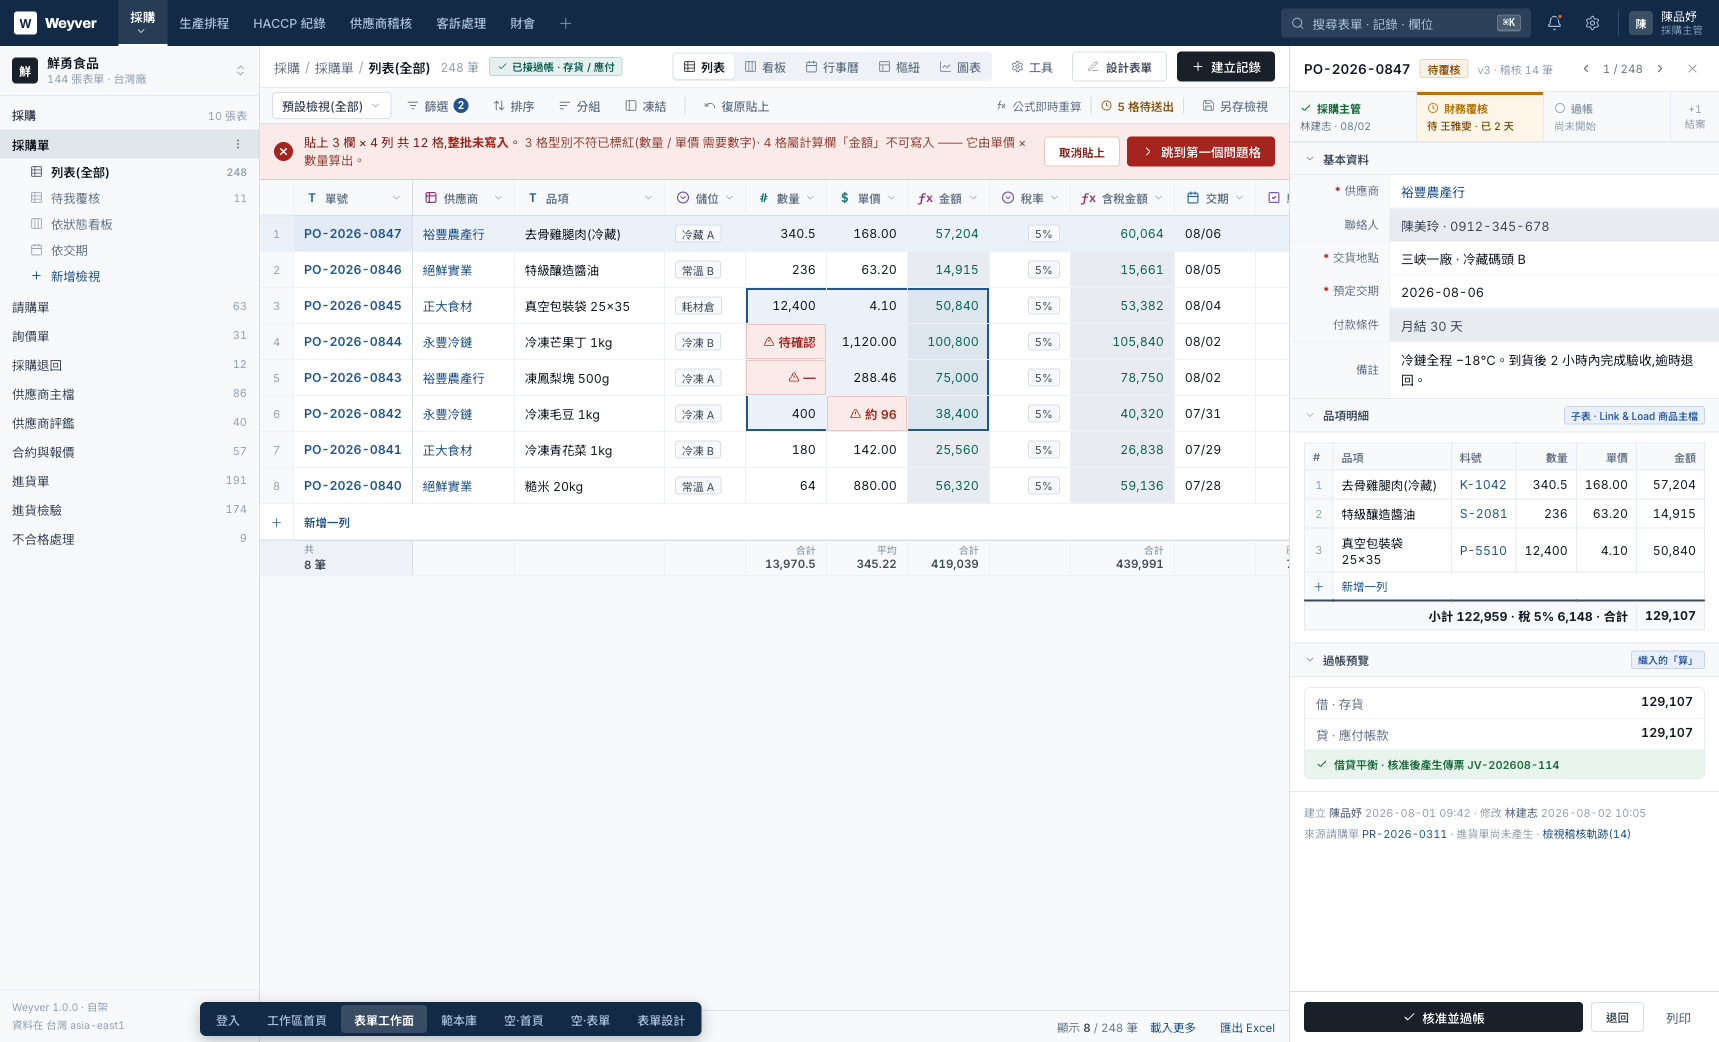
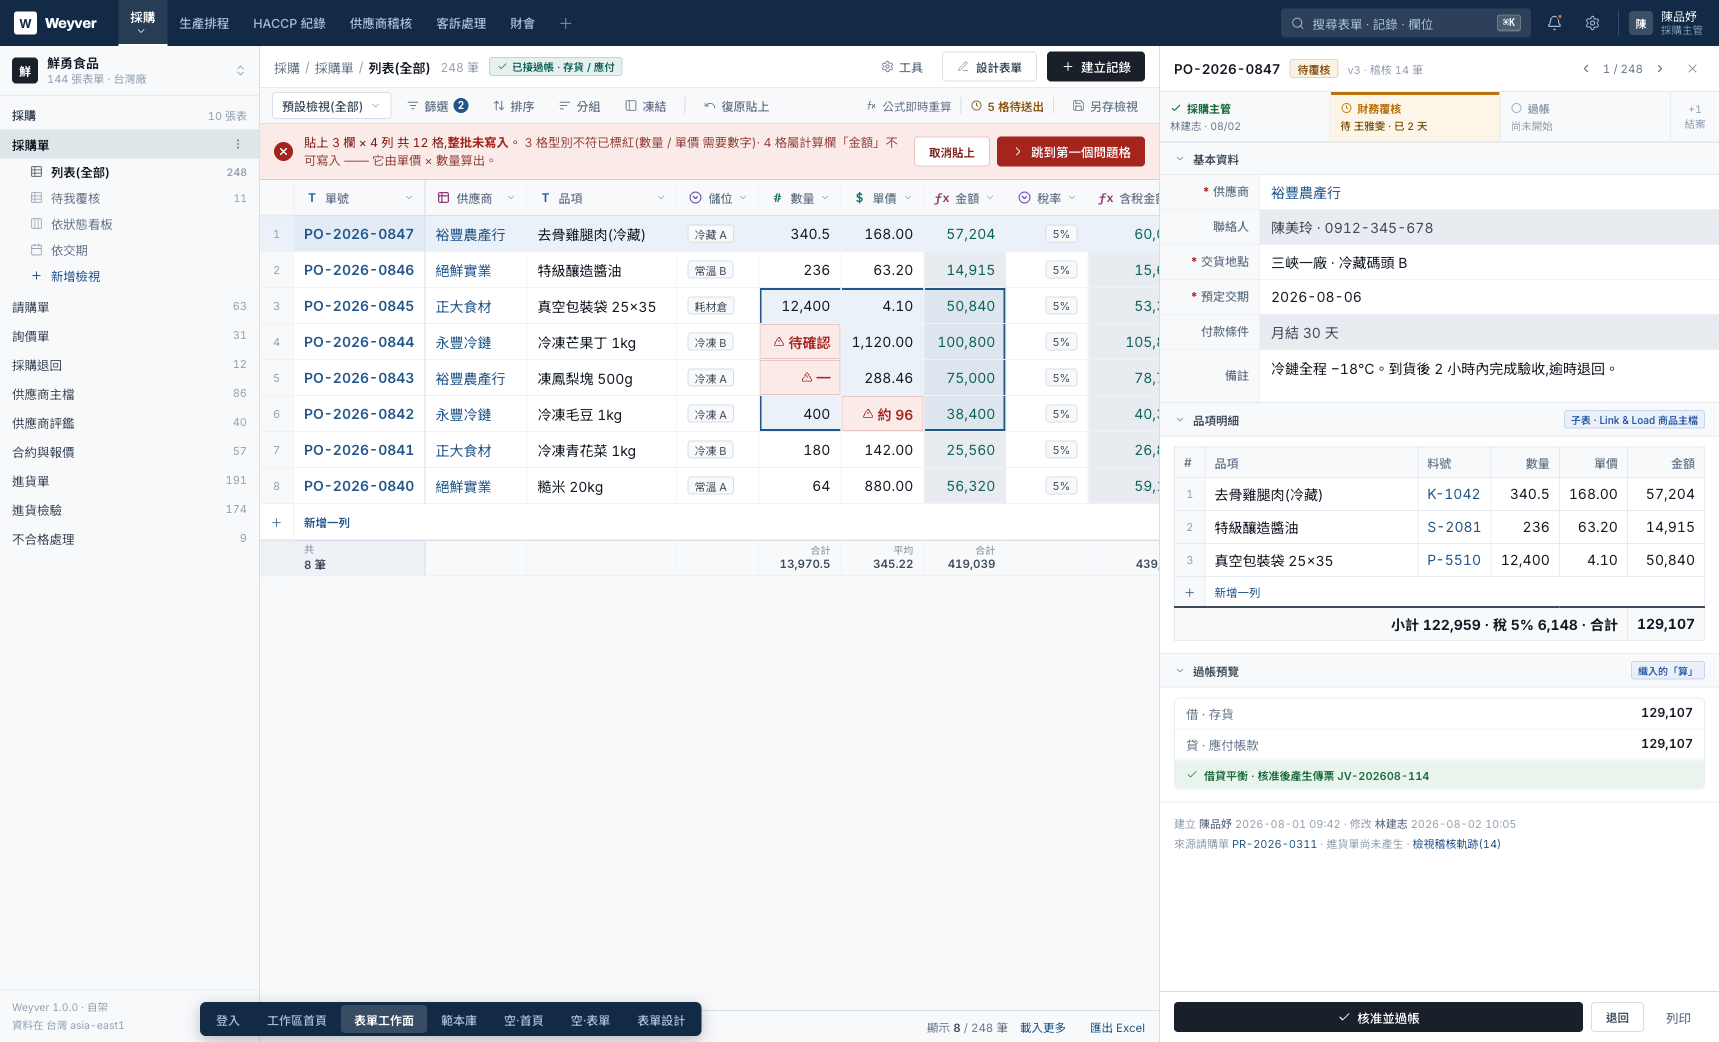
docs(design): G12 儲存格 14px —— 連帶翻出記錄抽屜寬度與「檢視是物件不是模式」
**G12 本身**:資料儲存格 12.4 → 14px(§2.2「CJK 在同樣 px 下視覺比 Latin 小約 1px」),
表頭 11.5/600 → 12/500,記錄面板欄位值與子表同步。

🔴 **規則內部有矛盾,用作者自己的 mockup 當裁判**:
§2.2 token 表寫「label 12/500|欄位標籤、**表頭**」,
內文卻寫「**表頭與儲存格同尺寸**,只差字重與顏色」。
mockup.html:74-77 逐字 td{font-size:14px} / th{font-size:12px;font-weight:500}
→ 產出物跟 token 表走;**那句內文被作者自己的實作推翻了**。

🔴 **連帶一:記錄面板 430 → 560px。** §2.3「右側面板 400px 檢閱器 / 560px 記錄抽屜」。
我方這個面板承載標題+階段列+欄位+子表+過帳+稽核尾註+動作列 ——
那是**記錄抽屜不是檢閱器**,430px 從一開始就偏窄,只是 14px 之後藏不住了。

🔴 **連帶二(最有價值的一個):工作列的檢視頁籤整排移除。**
側欄 260 + 抽屜 560 之後工作列擠爆,五個頁籤被壓成直書。
但去看**為什麼擠** —— 那五個頁籤本來就不該存在:
§1 逐字「檢視是物件,不是模式(NocoDB)。**不要做『把這張表切成看板』的開關**,
而是『建立一個看板檢視』。」
而具名檢視在**步驟 4 已經放進側欄了** → 留著是同一件事兩套 UI,
**而且其中一套正是規則點名的反面作法**。

→ 教訓:**空間壓力暴露的是結構問題,不是版面問題。**
   擠的時候先問「這東西該在嗎」,而不是先想怎麼塞。

diff --git a/docs/mockups/weyver-v2.html b/docs/mockups/weyver-v2.html
@@ -598,7 +598,16 @@ a:hover{text-decoration:underline;}
 /* 網格 —— 共識 R2 的另一半:可編輯 → 完整格線 + 列號欄。
    [M] 格線比外框淺(NocoDB),但 W3 要看得見(不學它的 7/255)。 */
 .gscroll{flex:1;overflow:auto;min-height:0;background:var(--paper-2);}
-.g{border-collapse:separate;border-spacing:0;font-size:12.4px;width:100%;}
+/* 🔴 G12(2026-08-08)|資料儲存格 **14px**。`DESIGN-RULES.md` §2.2:
+   「**CJK 在同樣 px 下視覺比 Latin 小約 1px,所以資料儲存格用 14px 而非 13px**」。
+   我方原本 12.4px —— 比規則小 1.6px,換 Noto Sans TC 後更明顯。
+
+   ⚠ **規則內部有矛盾,我用作者自己的 mockup 當裁判**:
+   §2.2 token 表寫「label 12/500|欄位標籤、**表頭**」,
+   但同節內文寫「**表頭與儲存格同尺寸**,只差字重與顏色」。
+   `mockup.html:74-77` 逐字 `td{font-size:14px}` / `th{font-size:12px;font-weight:500}`
+   → **產出物跟 token 表走,那句內文被作者自己的實作推翻了。** */
+.g{border-collapse:separate;border-spacing:0;font-size:14px;width:100%;}
 /* 🔴 G7(docs/39 步驟 2)|列高 36px、內距 10px。
    `DESIGN-RULES.md` §2.3:「三家獨立量測收斂:32–36px 列高、8–12px 儲存格內距」,
    並明列「**列高不要膨脹到 52px**」(Qualio 的 56–70px 讓 QA 主管一頁只看到 10 筆)。
@@ -606,7 +615,7 @@ a:hover{text-decoration:underline;}
 .g th,.g td{border-right:1px solid var(--line-3);border-bottom:1px solid var(--line-3);
   height:36px;padding:0 10px;white-space:nowrap;background:var(--paper);}
 .g thead th{position:sticky;top:0;z-index:3;background:var(--paper-2);
-  border-bottom:1px solid var(--line);font-size:11.5px;font-weight:600;color:var(--ink-3);text-align:left;}
+  border-bottom:1px solid var(--line);font-size:12px;font-weight:500;color:var(--ink-3);text-align:left;}
 .g thead .hh{display:flex;align-items:center;gap:5px;}
 .g thead .hh .gr{margin-left:auto;color:var(--ink-4);display:flex;}
 .g thead .hh .gr svg{width:11px;height:11px;}
@@ -674,7 +683,11 @@ a:hover{text-decoration:underline;}
 .sbar b{color:var(--ink-2);font-weight:600;}
 
 /* 記錄面板 —— [D] 的單據語言,分段用灰標題帶不用實心色條(§3.1) */
-.rec{width:430px;flex-shrink:0;border-left:1px solid var(--line);background:var(--paper);
+/* 🔴 §2.3 明列「右側面板 **400px(檢閱器)/ 560px(記錄抽屜)**」。
+   我方這個面板承載標題 + 階段列 + 欄位 + 子表 + 過帳 + 稽核尾註 + 動作列 ——
+   那是**記錄抽屜**不是檢閱器,430px 從一開始就偏窄。
+   G12 把儲存格加到 14px 之後它藏不住了(子表開始換行)。 */
+.rec{width:560px;flex-shrink:0;border-left:1px solid var(--line);background:var(--paper);
   display:flex;flex-direction:column;}
 .rec .hd{padding:10px 14px;border-bottom:1px solid var(--line-2);display:flex;align-items:center;gap:9px;}
 .rec .hd .no{font-size:13.5px;font-weight:600;}
@@ -718,17 +731,17 @@ a:hover{text-decoration:underline;}
   border:1px solid var(--rel-l);border-radius:var(--r-chip);padding:1px 6px;}
 .f{display:grid;grid-template-columns:100px 1fr;border-bottom:1px solid var(--line-3);}
 .f:last-child{border-bottom:none;}
-.f .k{background:var(--paper-2);padding:7px 10px;font-size:11.5px;color:var(--ink-3);text-align:right;
+.f .k{background:var(--paper-2);padding:7px 10px;font-size:12px;font-weight:500;color:var(--ink-3);text-align:right;
   border-right:1px solid var(--line-3);display:flex;align-items:center;justify-content:flex-end;gap:3px;line-height:1.35;}
 .f .k i{color:var(--er);font-style:normal;font-weight:700;}
-.f .v{padding:7px 11px;font-size:12.8px;min-height:32px;display:flex;align-items:center;gap:6px;}
+.f .v{padding:7px 11px;font-size:14px;min-height:34px;display:flex;align-items:center;gap:6px;}
 .f .v.ro{background:var(--readonly);color:var(--ink-2);}
 .f.tall .v{align-items:flex-start;min-height:52px;padding-top:8px;line-height:1.6;}
 .sub{width:100%;border-collapse:collapse;}
-.sub th{background:var(--paper-2);font-size:11px;font-weight:600;color:var(--ink-3);padding:5px 8px;
+.sub th{background:var(--paper-2);font-size:12px;font-weight:500;color:var(--ink-3);padding:6px 9px;
   text-align:left;border:1px solid var(--line-2);}
 .sub th.r{text-align:right;}
-.sub td{padding:5px 8px;font-size:12.3px;border:1px solid var(--line-2);}
+.sub td{padding:6px 9px;font-size:14px;border:1px solid var(--line-2);}
 .sub td.r{text-align:right;}
 .sub td.rn{width:24px;text-align:center;color:var(--ink-4);font-size:11px;background:var(--paper-2);}
 .sub td.id{white-space:nowrap;}
@@ -1062,10 +1075,10 @@ a:hover{text-decoration:underline;}
 .fd-f{display:grid;grid-template-columns:92px 1fr;border-bottom:1px solid var(--line);
   border-right:1px solid var(--line);position:relative;cursor:pointer;}
 .fd-f:last-child{border-right:none;}
-.fd-f .k{background:var(--paper-2);padding:7px 9px;font-size:11.5px;color:var(--ink-3);text-align:right;
+.fd-f .k{background:var(--paper-2);padding:7px 9px;font-size:12px;font-weight:500;color:var(--ink-3);text-align:right;
   border-right:1px solid var(--line-2);display:flex;align-items:center;justify-content:flex-end;gap:3px;}
 .fd-f .k i{color:var(--er);font-style:normal;font-weight:700;}
-.fd-f .v{padding:7px 10px;font-size:12.8px;min-height:32px;display:flex;align-items:center;gap:6px;}
+.fd-f .v{padding:7px 10px;font-size:14px;min-height:34px;display:flex;align-items:center;gap:6px;}
 /* 🔴 OQ-FDW-1=A:示例值**依型別生成**,不取真實記錄(設計者未必有讀資料權,
    而且空表就沒東西可顯示)。ink-3 + 淡底標示為**非真值**。 */
 .fd-f .v .ex{color:var(--ink-4);background:var(--paper-2);padding:1px 5px;border-radius:2px;}
@@ -1406,13 +1419,11 @@ a:hover{text-decoration:underline;}
           <span class="cnt">248 筆</span>
           <span class="cap"><svg viewBox="0 0 24 24"><path d="M20 6 9 17l-5-5"/></svg>已接過帳 · 存貨 / 應付</span>
           <span class="sp"></span>
-          <div class="views">
-            <button class="on"><svg viewBox="0 0 24 24"><rect width="18" height="18" x="3" y="3" rx="2"/><path d="M3 9h18M3 15h18M9 3v18"/></svg>列表</button>
-            <button><svg viewBox="0 0 24 24"><rect width="18" height="18" x="3" y="3" rx="2"/><path d="M9 3v18M15 3v18"/></svg>看板</button>
-            <button><svg viewBox="0 0 24 24"><rect width="18" height="18" x="3" y="4" rx="2"/><path d="M3 10h18M8 2v4M16 2v4"/></svg>行事曆</button>
-            <button><svg viewBox="0 0 24 24"><rect width="18" height="18" x="3" y="3" rx="2"/><path d="M3 9h18M9 21V9"/></svg>樞紐</button>
-            <button><svg viewBox="0 0 24 24"><path d="M3 3v16a2 2 0 0 0 2 2h16"/><path d="m7 14 4-4 4 4 5-5"/></svg>圖表</button>
-          </div>
+          <!-- 🔴 檢視頁籤已移除(2026-08-08,G12 的空間壓力暴露出來的結構問題)。
+               `DESIGN-RULES.md` §1 逐字:「**檢視是物件,不是模式**(NocoDB)。
+               **不要做『把這張表切成看板』的開關**,而是『建立一個看板檢視』。」
+               → 這排頁籤正是規則點名的那個開關,而**具名檢視上一步已經放進側欄了** ——
+                 留著就是同一件事兩套 UI,而且其中一套是反面作法。 -->
           <button class="tool"><svg viewBox="0 0 24 24"><path d="M12.2 2h-.4a2 2 0 0 0-2 2v.2a2 2 0 0 1-1 1.7l-.4.2a2 2 0 0 1-2 0l-.1-.1a2 2 0 0 0-2.7.7l-.3.5a2 2 0 0 0 .7 2.8l.2.1a2 2 0 0 1 1 1.7v.4a2 2 0 0 1-1 1.7l-.2.1a2 2 0 0 0-.7 2.8l.3.5a2 2 0 0 0 2.7.7l.2-.1a2 2 0 0 1 2 0l.3.2a2 2 0 0 1 1 1.7v.2a2 2 0 0 0 2 2h.4a2 2 0 0 0 2-2v-.2a2 2 0 0 1 1-1.7l.4-.2a2 2 0 0 1 2 0l.1.1a2 2 0 0 0 2.7-.7l.3-.5a2 2 0 0 0-.7-2.8l-.2-.1a2 2 0 0 1-1-1.7v-.4a2 2 0 0 1 1-1.7l.2-.1a2 2 0 0 0 .7-2.8l-.3-.5a2 2 0 0 0-2.7-.7l-.2.1a2 2 0 0 1-2 0l-.3-.2a2 2 0 0 1-1-1.7V4a2 2 0 0 0-2-2Z"/><circle cx="12" cy="12" r="3"/></svg>工具</button>
           <button class="btn sec"><svg viewBox="0 0 24 24"><path d="M12 20h9"/><path d="M16.5 3.5a2.1 2.1 0 0 1 3 3L7 19l-4 1 1-4Z"/></svg>設計表單</button>
           <button class="btn pri"><svg viewBox="0 0 24 24"><path d="M5 12h14M12 5v14"/></svg>建立記錄</button>
@@ -2000,11 +2011,6 @@ a:hover{text-decoration:underline;}
           <div class="crumb"><a>採購</a><span class="sep">/</span><b>採購單</b></div>
           <span class="cnt">0 筆</span>
           <span class="sp"></span>
-          <div class="views">
-            <button class="on"><svg viewBox="0 0 24 24"><rect width="18" height="18" x="3" y="3" rx="2"/><path d="M3 9h18M3 15h18"/></svg>列表</button>
-            <button><svg viewBox="0 0 24 24"><rect width="18" height="18" x="3" y="3" rx="2"/><path d="M9 3v18M15 3v18"/></svg>看板</button>
-            <button><svg viewBox="0 0 24 24"><rect width="18" height="18" x="3" y="4" rx="2"/><path d="M3 10h18M8 2v4M16 2v4"/></svg>行事曆</button>
-          </div>
           <button class="btn sec"><svg viewBox="0 0 24 24"><path d="M12 20h9"/><path d="M16.5 3.5a2.1 2.1 0 0 1 3 3L7 19l-4 1 1-4Z"/></svg>設計表單</button>
           <!-- 🔴 0 筆時工具列這顆降為次要 —— 它和空狀態的「建立第一筆」是**同一個動作**。
                同一個畫面同一個動作出現兩顆實心,「哪個是主動作」就沒有答案了。

diff --git a/docs/39-視覺落差與對齊計畫.md b/docs/39-視覺落差與對齊計畫.md
@@ -84,7 +84,7 @@
 | ~~**G7**~~ | ~~列高~~ | ~~31px~~ | ✅ **已完成 2026-08-08** —— 36px / 內距 10px | 3 | 低 |
 | ~~**G8**~~ | ~~字體~~ | ~~IBM Plex 全家~~ | ✅ **已完成 2026-08-08** —— 三分工 display / sans / mono | 全部 | 中 |
 | ~~**G9**~~ | ~~空狀態~~ | ~~置中卡片 + 三顆按鈕~~ | ✅ **已完成 2026-08-08** —— 整寬淺色帶 + 行內連結 | 2 | 低 |
-| **G12** 🆕 | 儲存格字級 | 12.4px | **14px**(§2.2:CJK 視覺比 Latin 小 1px) | 3 | 低 |
+| ~~**G12**~~ | ~~儲存格字級~~ | ~~12.4px~~ | ✅ **已完成 2026-08-08** —— 14px / 表頭 12-500 / 抽屜 560px | 3 | 低 |
 | **G10** | 智慧按鈕 | 無 | 關聯記錄計數當數字磚(`3 出貨單`) | 1 | 中 |
 | ~~**G11**~~ | ~~內容寬度上限~~ | ~~首頁 1180 / 首屏 840~~ | ✅ **已完成 2026-08-08** —— 1120 / 740 | 2 | 低 |
 
@@ -279,6 +279,33 @@
 而我方儲存格是 **12.4px** —— 比規則小 1.6px,且現在字體換成 Noto Sans TC 後更明顯。
 → **新增 G12(儲存格 12.4 → 14px),不併進本步** —— 它會再動一次列高與換行,
    要單獨量。
+
+### 4.7 G12 落地紀錄(2026-08-08)—— 一個字級改動連帶翻出兩件事
+
+**G12 本身**|資料儲存格 12.4 → **14px**(§2.2「CJK 在同樣 px 下視覺比 Latin 小約 1px」),
+表頭 11.5/600 → **12/500**,記錄面板欄位值 / 子表同步。
+
+🔴 **規則內部有矛盾,我用作者自己的 mockup 當裁判**|
+§2.2 token 表寫「label 12/500|欄位標籤、**表頭**」,
+但同節內文寫「**表頭與儲存格同尺寸**,只差字重與顏色」。
+`mockup.html:74-77` 逐字 `td{font-size:14px}` / `th{font-size:12px;font-weight:500}`
+→ **產出物跟 token 表走;那句內文被作者自己的實作推翻了。**
+
+🔴 **連帶一:記錄面板 430 → 560px。**
+§2.3 明列「右側面板 **400px(檢閱器)/ 560px(記錄抽屜)**」。
+我方這個面板承載標題 + 階段列 + 欄位 + 子表 + 過帳 + 稽核尾註 + 動作列 ——
+那是**記錄抽屜不是檢閱器**,430px 從一開始就偏窄,
+只是 14px 之後藏不住了(子表開始換行)。
+
+🔴 **連帶二(最有價值的一個):工作列的檢視頁籤整排移除。**
+側欄 260 + 抽屜 560 之後工作列擠爆,五個頁籤被壓成直書。
+但去看為什麼擠 —— **那五個頁籤本來就不該存在**:
+§1 逐字「**檢視是物件,不是模式**(NocoDB)。**不要做『把這張表切成看板』的開關**,
+而是『建立一個看板檢視』。」
+而具名檢視在**步驟 4 已經放進側欄了** → 留著就是同一件事兩套 UI,
+**而且其中一套正是規則點名的反面作法**。
+→ **空間壓力暴露的是結構問題,不是版面問題。** 擠的時候先問「這東西該在嗎」,
+   而不是先想怎麼塞。
 
 **每一步的驗收**|Playwright 實走 + 截圖存 `docs/research/ui-extract-2026-08-06/`,
 並跑 `docs/mockups/_check-collisions.py`。
